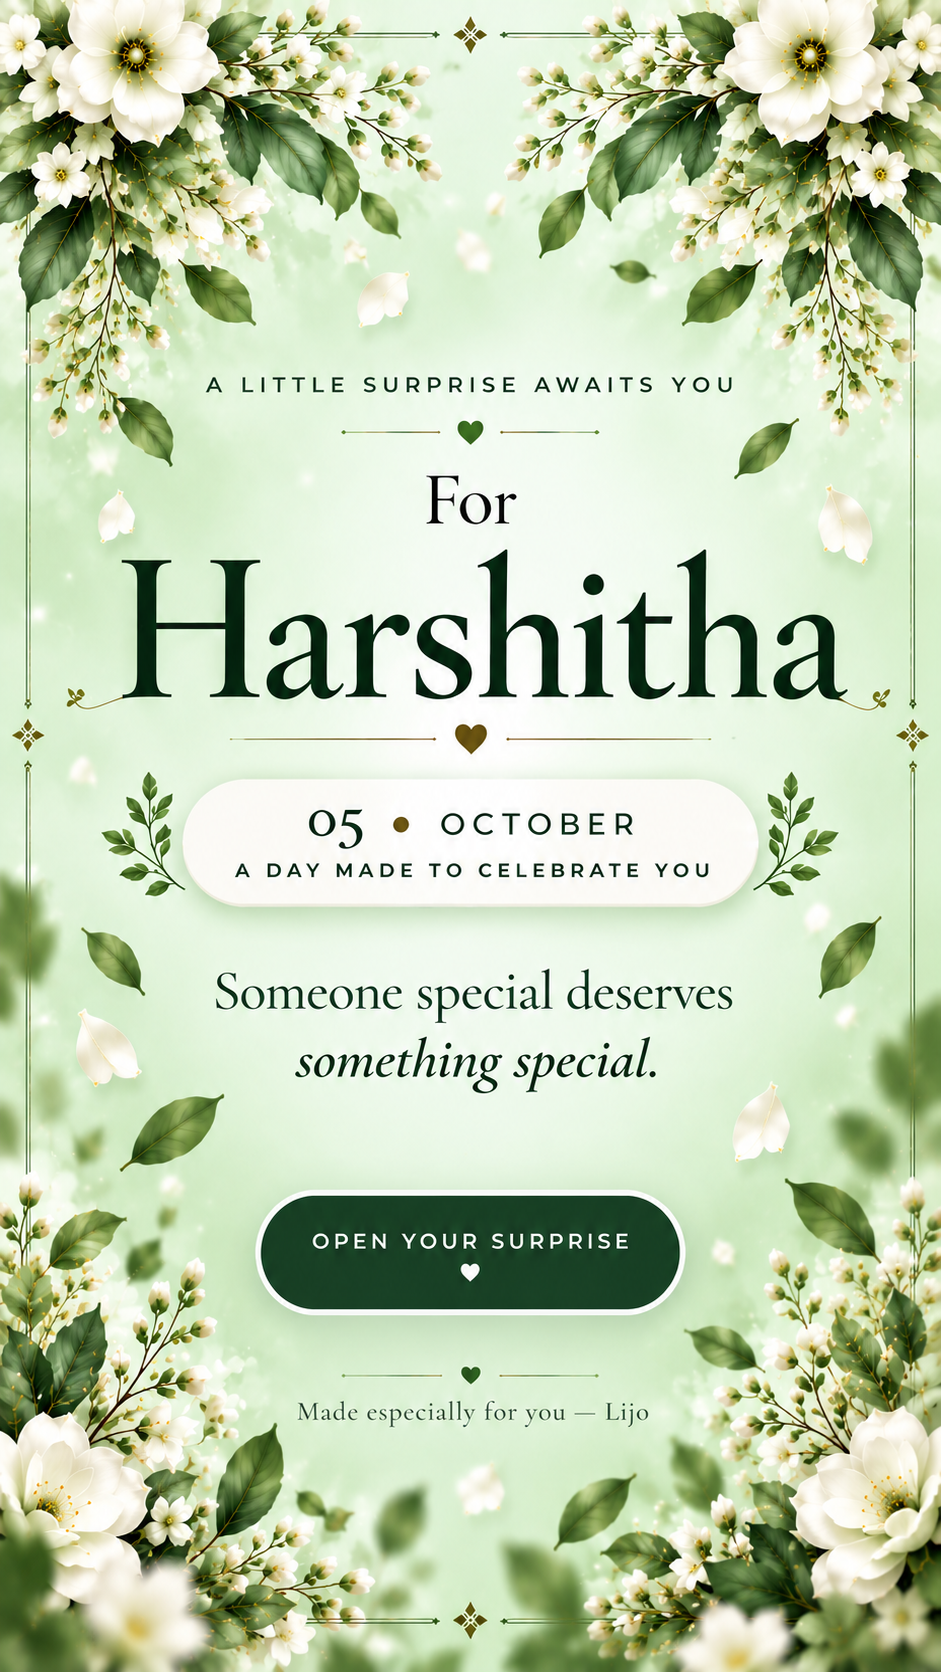
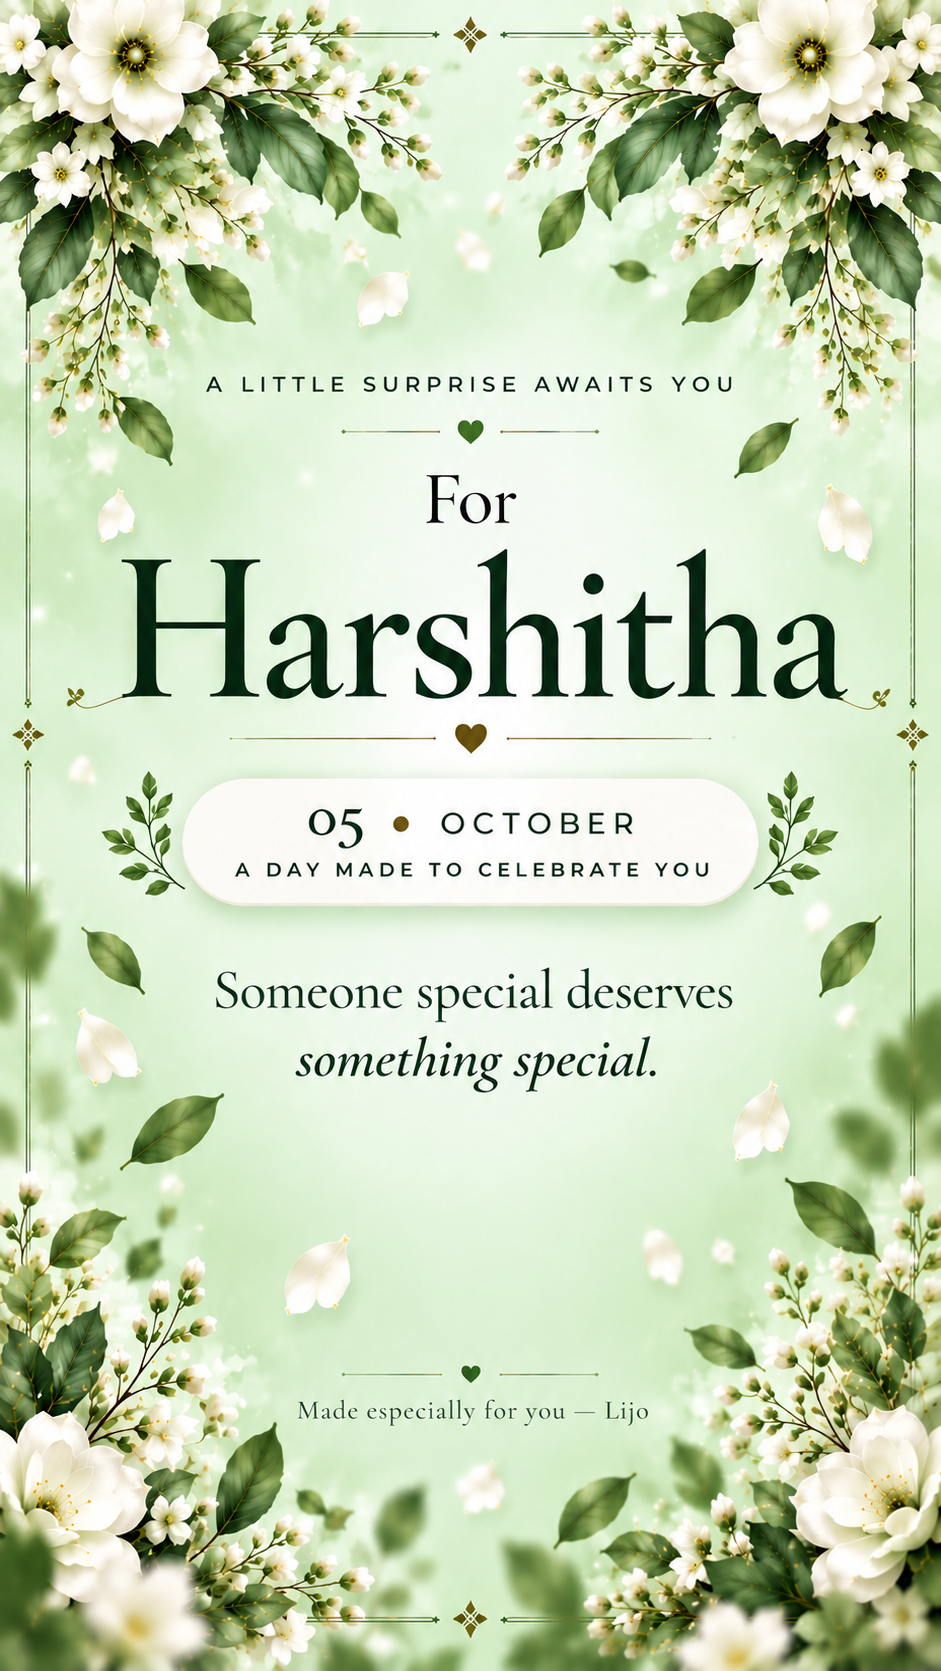
Update birthday design and title

diff --git a/style.css b/style.css
@@ -1240,3 +1240,65 @@ body {
     }
 
 }
+/* =========================================
+   FINAL REAL-PHONE OPTIMIZATION
+========================================= */
+
+@media (max-width: 600px) {
+
+    html,
+    body {
+        width: 100%;
+        height: 100%;
+        overflow: hidden;
+        background: #DDF5E2;
+    }
+
+    .front-page,
+    #birthdayReveal,
+    #messageSection,
+    #finalSection {
+        width: 100%;
+        height: 100dvh;
+
+        background-size: contain;
+        background-position: center center;
+        background-repeat: no-repeat;
+
+        background-color: #DDF5E2;
+    }
+
+
+    /* FRONT PAGE */
+
+    #openBtn {
+        top: 78%;
+        min-width: 210px;
+        padding: 14px 24px;
+        font-size: 10px;
+    }
+
+
+    /* BIRTHDAY PAGE */
+
+    .birthday-reveal-overlay {
+        padding-bottom: 3%;
+    }
+
+    #messageBtn {
+        padding: 13px 25px;
+        font-size: 10px;
+    }
+
+
+    /* MESSAGE PAGE */
+
+    .message-page-overlay {
+        padding-bottom: 5%;
+    }
+
+    #memoriesBtn {
+        padding: 13px 25px;
+        font-size: 10px;
+    }
+}

diff --git a/index.html b/index.html
@@ -8,7 +8,7 @@
     <meta name="viewport"
           content="width=device-width, initial-scale=1.0">
 
-    <title>For Harshitha 💚</title>
+    <title>Happy Birthday Harshitha </title>
 
     <link rel="stylesheet" href="style.css">
 
